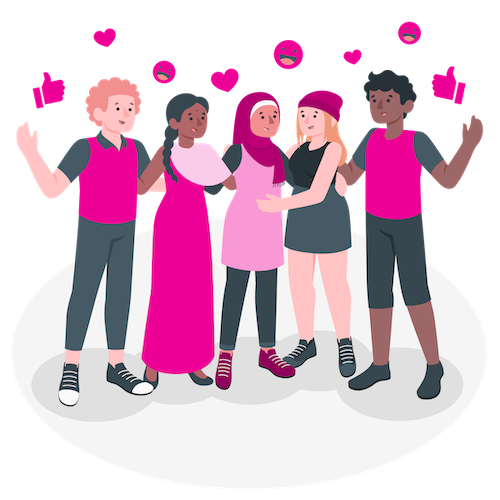
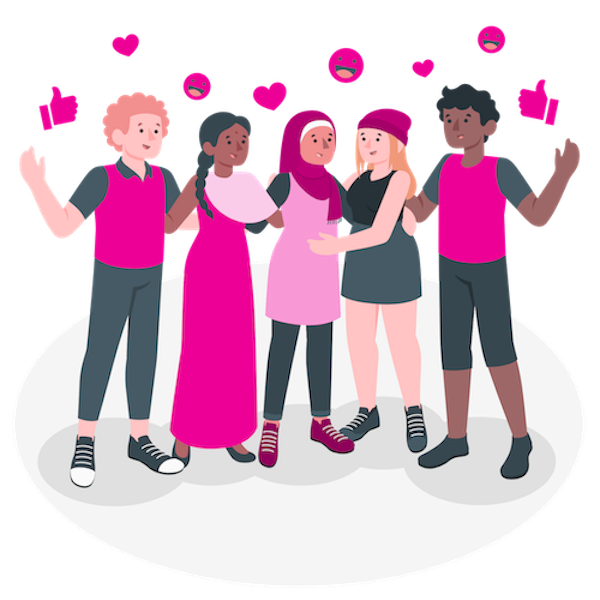
uniandes

diff --git a/girl-up-uniandes/src/pages/landing.tsx b/girl-up-uniandes/src/pages/landing.tsx
@@ -7,6 +7,8 @@ import CausasLocales from '../components/localcauses'
 
 import BannerImg from "../images/Powerful.gif"
 import Logotipo from "../images/Logotipo2.png"
+import Logotipo3 from "../images/Logotipo3.png"
+import TeamImg from "../images/Team.png"
 import BlueShape from "../images/BlueShape.png"
 import Friends from "../images/Friends.png"
 import PowerfulAmico from "../images/Powerful-amico.png"
@@ -43,7 +45,7 @@ export default function Landing() {
   function PrimerBanner(){
     return(
       <Grid container direction="row" justify="center" alignItems="center" style={{marginTop: 100}}>
-        <Grid item xs={12} sm  style={{marginLeft:40,marginRight:40}}>
+        <Grid item xs={12} sm  style={{marginLeft:20,marginRight:20}}>
           <Grid item container direction="column" justify="center" alignItems="center" className={classes.banner}>
             <Grid item >
               <Button href="https://girlup.org/">
@@ -63,11 +65,13 @@ export default function Landing() {
           </Grid>
       </Grid>
       <Grid item xs={12}sm>
-        <Grid item container direction="column" justify="center" alignItems="center"  spacing = {2} style={{marginLeft: 10, marginRight: 10}}>
-          <Grid item >
-            <img alt="complex" src={BannerImg} style={{maxWidth: '100%',minWidth: '50%', textAlign: "center"}}/>
+      <Hidden xsDown>
+          <Grid item container direction="column" justify="center" alignItems="center"  spacing = {2} style={{marginLeft: 10, marginRight: 10}}>
+            <Grid item >
+              <img alt="complex" src={BannerImg} style={{maxWidth: '100%',minWidth: '50%', textAlign: "center"}}/>
+            </Grid>
           </Grid>
-        </Grid>
+        </Hidden>
       </Grid>
     </Grid>
     );
@@ -152,14 +156,43 @@ export default function Landing() {
             </Hidden>
           </Grid>
         </Grid>
-      </Grid> 
-        
+      </Grid>         
   );}
 
+  function GirlUpUniandes(){
+    return(
+      <div style={{backgroundColor:"#ED0095"}}>
+        <Grid container direction="row" justify="center" alignItems="center" style={{marginTop: 65, marginBottom:100}}>
+            
+            <Grid item xs={12}sm>
+              <Hidden xsDown>
+                <Grid item container direction="column" justify="center" alignItems="center" style={{marginLeft: 10, marginRight: 10}}>
+                    <Grid item style={{marginBottom:30}}>
+                        <img alt="complex" src={TeamImg} style={{maxWidth: '100%',minWidth: '50%', textAlign: "center"}}/>
+                    </Grid>
+                </Grid>
+              </Hidden>
+            </Grid>
+            <Grid item xs={12}sm>
+                <Grid item container direction="column" justify="center" alignItems="center" style={{marginLeft: 10, marginRight: 10}}>
+                    <Grid item style={{marginTop:60}}>
+                        <img alt="complex" src={Logotipo3} style={{maxWidth: '40%',minWidth: '30%', textAlign: "center", marginLeft:"30%",marginRight:"30%"}}/>
+                    </Grid>
+                    <Typography className={classes.typography} variant="h5" component="h6"  style={{color:"#FAC8C8",textAlign: "justify",margin:60}} >
+                      Con Girl Up Uniandes queremos generar un impacto en nuestra comunidad uniandina, en nuestra ciudad, Bogotá y en nuestro país, Colombia. Descubre nuestro programa de mentorías para niñas de colegio, estudiantes de primer semestre y estudiantes a punto de graduarse de la U. Ayúdanos a promover la educación, porque educar a una niña, es educar a todo un país. ¡Apóyanos a llevar STEAM (ciencia, tecnología, ingeniería, arte y matemáticas) a todos los rincones de nuestro hermoso país y del mundo!  
+                    </Typography>
+                </Grid>
+            </Grid>
+            
+        </Grid>
+      </div>
+    );
+  }
   return (
     <div style={{ overflowX:"hidden"}}>
       <NavBar/>
       <PrimerBanner/>
+      <GirlUpUniandes/>
       <TextoAnimado/>
       <QuienesSomos/>
       <CausasLocales/>

diff --git a/girl-up-uniandes/src/pages/events.tsx b/girl-up-uniandes/src/pages/events.tsx
@@ -61,6 +61,7 @@ function EnConstruccion(width:any){
     );
 }
 
+ 
 export default function Eventos() {
     return (
       <div>
